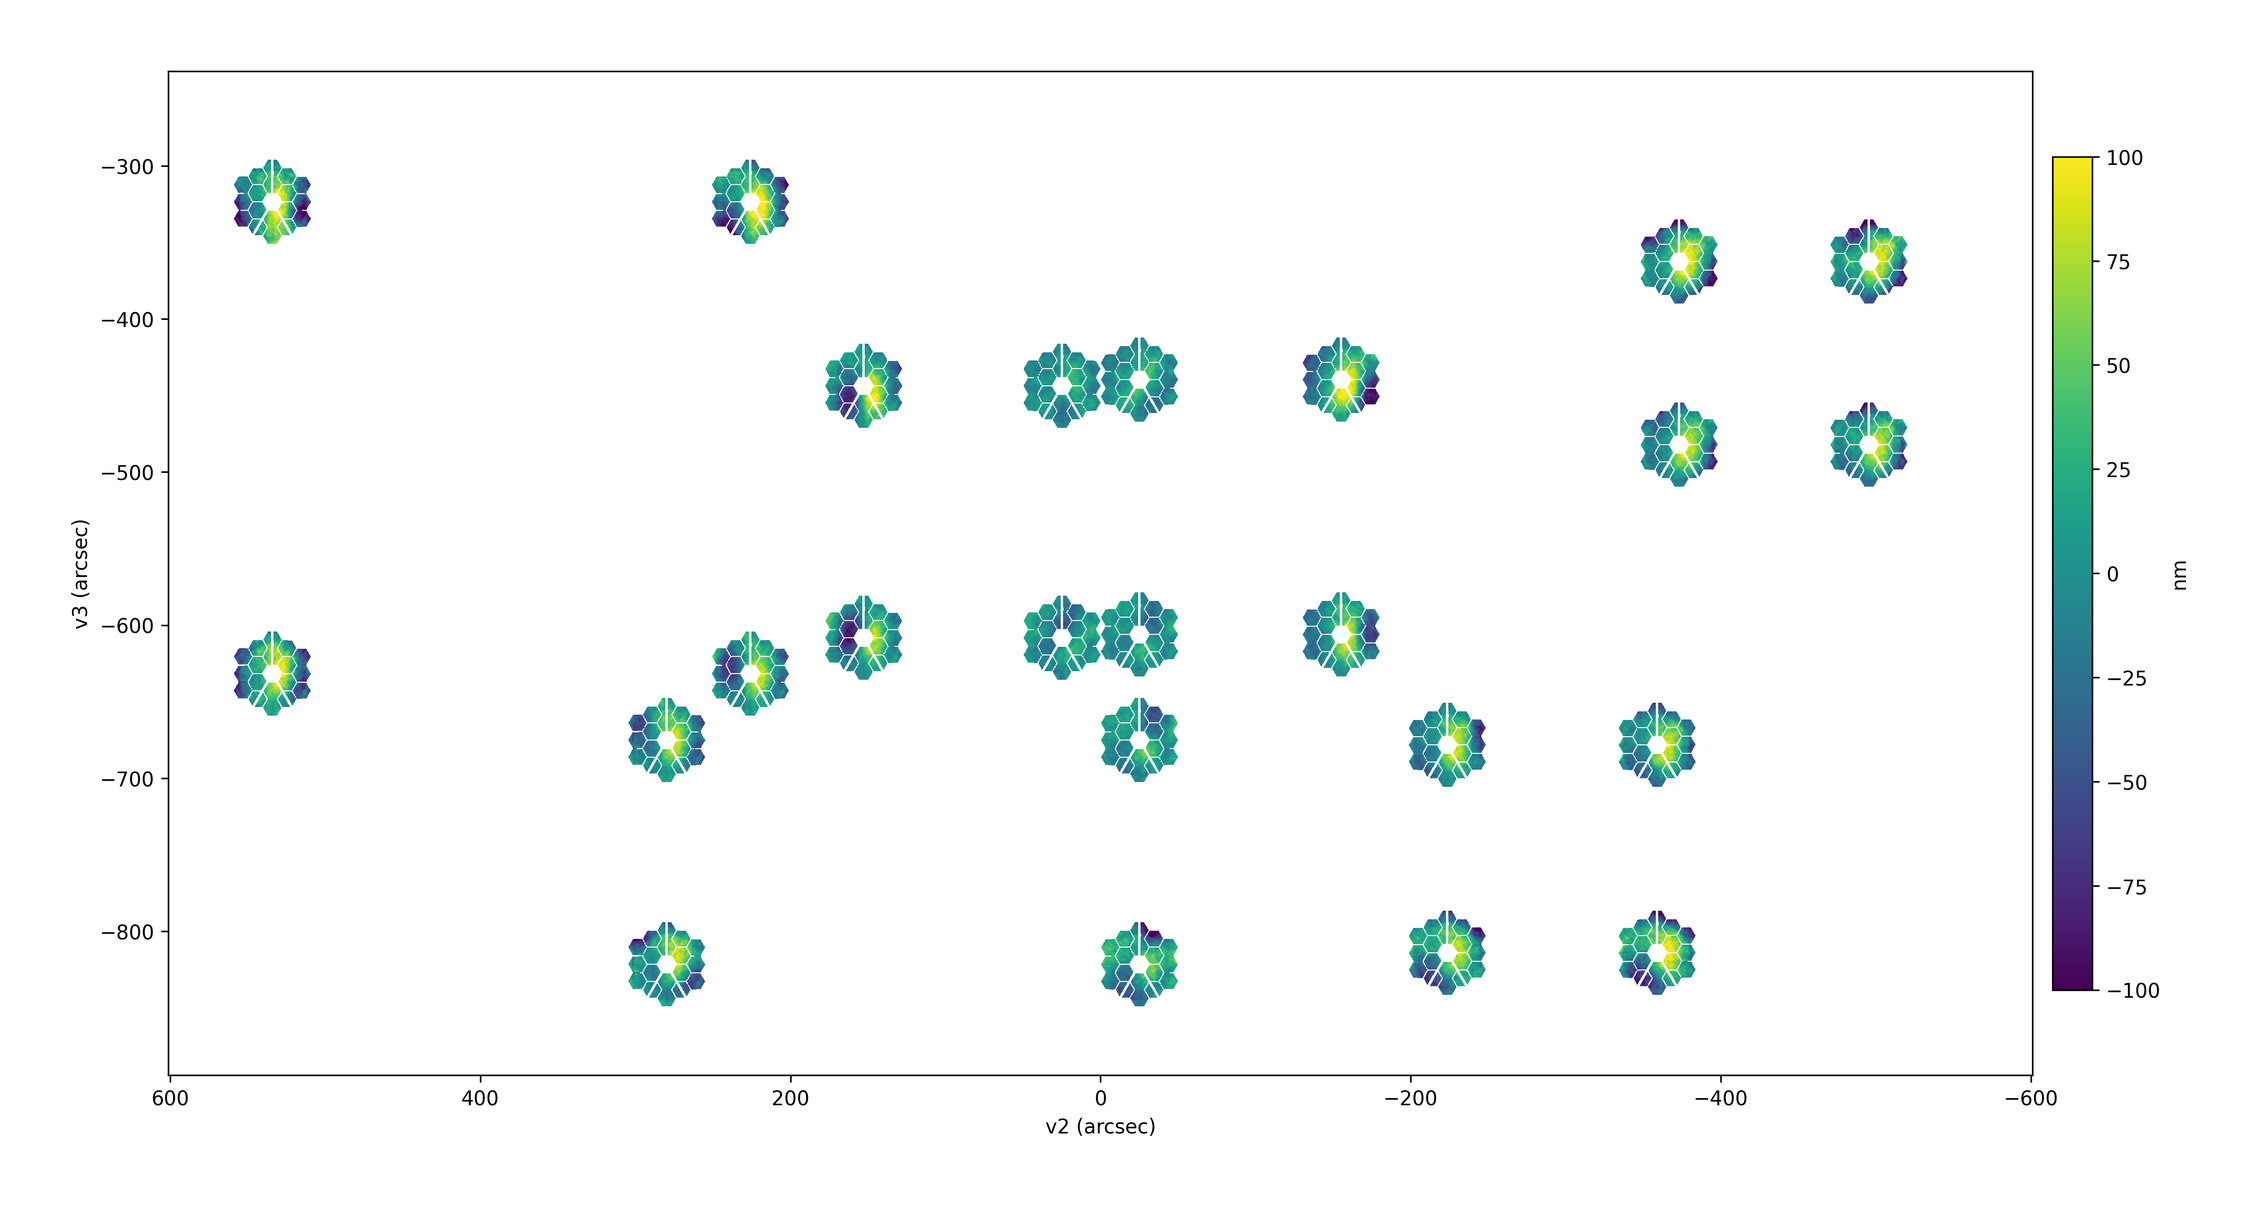
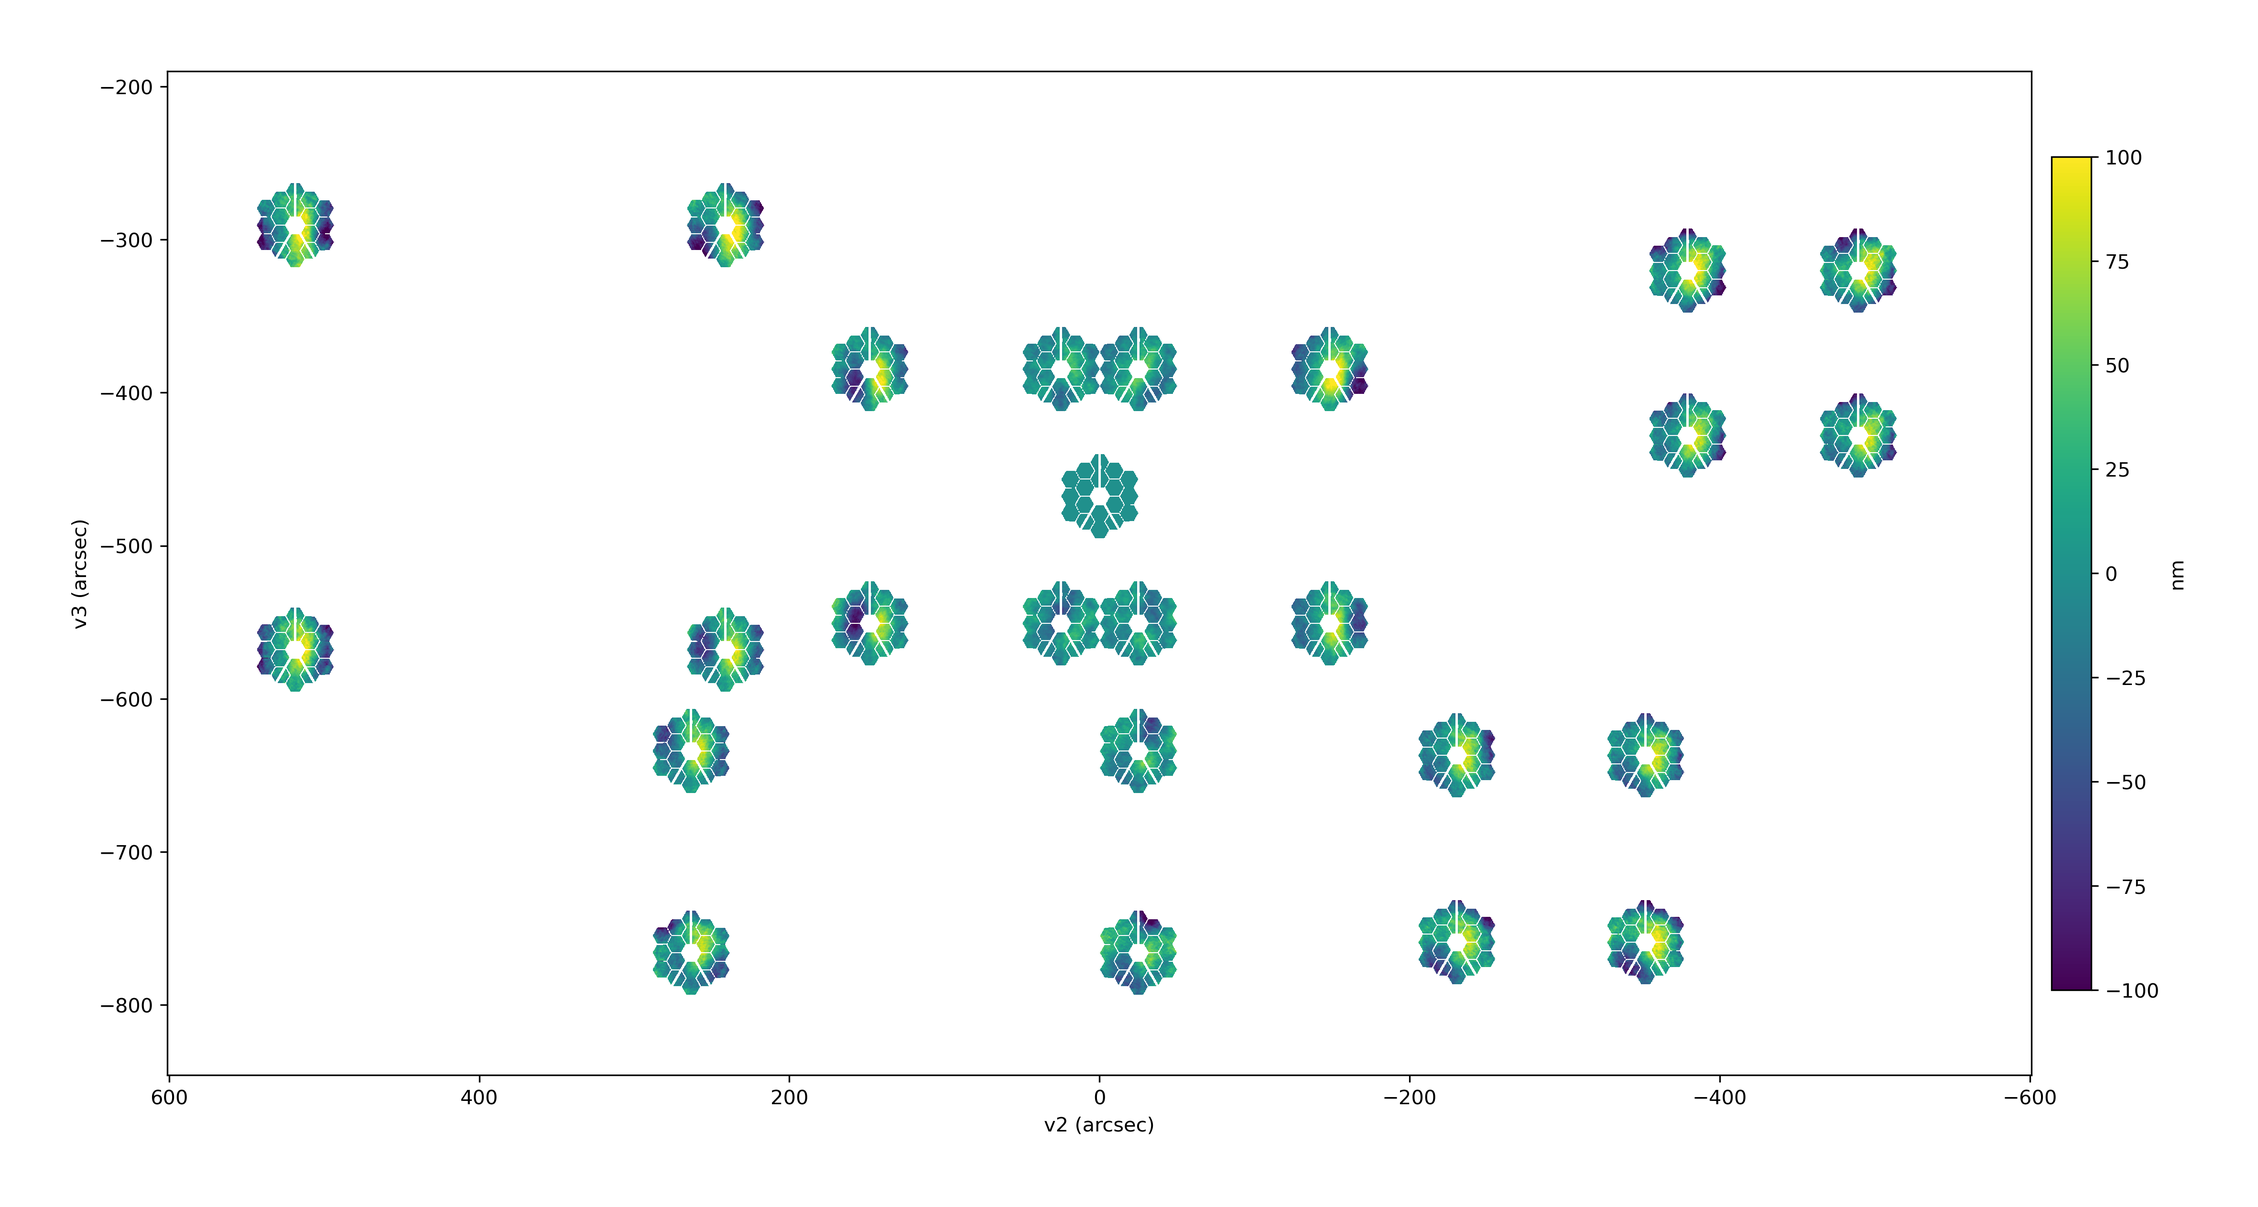
Fixed a few bugs that were causing disagreement with field-dependent wavefront maps and updated documentation.  Added ability to use fewer polynomial orders in field dependent model.

diff --git a/dev_utils/field_dependence/read_codev_dat_fits.py b/dev_utils/field_dependence/read_codev_dat_fits.py
@@ -3,6 +3,8 @@ import pint
 units = pint.UnitRegistry()
 import astropy.io.fits as fits
 import basis
+import matplotlib.pyplot as plt
+from datetime import datetime
 
 # Script that reads in a set of CodeV Pupil map OPD files across fields and instruments and fits Zernikes to the OPD
 # distribution at each field point and then Lengdres to the variation of each Zernike coefficient across field.  The
@@ -25,8 +27,8 @@ def read_codeV_data_file(filename):
 
 
 def main():
-    num_fields_x = 15
-    num_fields_y = 15
+    num_fields_x = 21
+    num_fields_y = 21
 
     num_wf_pts_x = 256
     num_wf_pts_y = 256
@@ -39,38 +41,30 @@ def main():
         'niriss'
     ]
 
-    # instruments = {'nircam'}
-
     # Zernike fitting order for each instrument
-    order= {'fgs' : 6,
-            'nircam' : 6,
-            'miri' : 6,
-            'nirspec' : 6,
-            'niriss' : 6
+    order= {'fgs': 15,
+            'nircam': 15,
+            'miri': 15,
+            'nirspec': 15,
+            'niriss': 15
             }
 
     # Define the origin of the CodeV coordinate system in V2/V3 space
     v2_origin_degrees = 0
     v3_origin_degrees = -468/3600
     # How are the signs of the coordinates related between V2/V3 and CodeV
-    v2_sign = -1
+    v2_sign = 1
     v3_sign = -1
 
     wavelength_nm = 2120
 
     # Fitting order of Legendres for fitting field variation
-    legendre_order = 11
+    legendre_order = 15
     legendres = basis.Legendre2DBasis(legendre_order, num_fields_y, num_fields_x)
 
     # Read in the wavefront at at the on-axis field point
-    oa_data, oa_data_defined, oa_field = read_codeV_data_file('raw_field_dep_data/wavefront_on_axis.dat')
+    oa_data, oa_data_defined, oa_field = read_codeV_data_file('wavefront_on_axis.dat')
     oa_data = oa_data * wavelength_nm
-    zernikes_oa = basis.NollZernikeBasis(order['nircam'], num_wf_pts_x, num_wf_pts_y)
-    oa_wavefront = basis.PointByPointWavefront(oa_data,
-                                               oa_data_defined, 2, 2120,
-                                               basis.units.nm, wf_basis=zernikes_oa)
-    oa_coeffs = oa_wavefront.coeffs
-
 
     # Loops over the various instruments
     for instrument in instruments:
@@ -83,14 +77,9 @@ def main():
             num_coeffs = zernikes.numpolys
 
         # Read in wavefront at reference point
-        filename = f'raw_field_dep_data/{instrument}/wavefront_ref.dat'
+        filename = f'{instrument}/wavefront_ref.dat'
         ref_data, ref_data_defined, ref_field = read_codeV_data_file(filename)
         ref_data = ref_data * wavelength_nm  # CodeV gives wavefront in waves
-
-        ref_wf = basis.PointByPointWavefront(ref_data,
-                                             ref_data_defined, 2, 2120,
-                                             basis.units.nm, wf_basis=zernikes)
-        ref_coeffs = ref_wf.coeffs
 
         # Initialize some arrays
         fields = np.zeros((num_fields_x, num_fields_y, 2))
@@ -100,52 +89,90 @@ def main():
         coeffs_global = np.zeros((num_fields_y, num_fields_x, num_coeffs))
 
         print(instrument)
-        for fx_index in range(0,num_fields_x):
-            print(fx_index)
+
+        # Loop over the files for all fields doing Zernike fits and storing the Zernike data
+        for fx_index in range(0, num_fields_x):
+
             for fy_index in range(0, num_fields_y):
-                print(fy_index)
-                filename = f'raw_field_dep_data/{instrument}/wavefront_fx{fx_index + 1}_fy{fy_index + 1}.dat'
+                filename = f'{instrument}/wavefront_fx{fx_index + 1}_fy{fy_index + 1}.dat'
+                print(filename)
+                # Read in the CodeV wavefront data, OPD in waves in CodeV
                 cur_data, cur_data_defined, cur_field_pt = read_codeV_data_file(filename)
                 cur_data = cur_data * wavelength_nm
 
+                # Keep track of where data is good for each wavefront.  And together the current field, reference field
+                # and on-axis field so we only consider data that is valid in all of them.
                 data_defined_arr[fx_index, fy_index, :, :] = np.logical_and(cur_data_defined, ref_data_defined)
+                data_defined_arr[fx_index, fy_index, :, :] = np.logical_and(data_defined_arr[fx_index, fy_index, :, :], oa_data_defined)
 
+                # Store the location of the current field point
                 fields[fx_index, fy_index, 0] = cur_field_pt[0]
                 fields[fx_index, fy_index, 1] = cur_field_pt[1]
 
-                cv_wavefront = basis.PointByPointWavefront(cur_data,
+                # Subtract off local reference (~center of current instrument) and global (0,0 CodeV field point)
+                # reference wavefronts from current wavefront
+                cur_data_local = cur_data - ref_data
+                cur_data_global = cur_data - oa_data
+
+                # Define wavefront objects using the CodeV wavefront data
+                cv_wavefront_global = basis.PointByPointWavefront(cur_data_global,
                                                            data_defined_arr[fx_index, fy_index, :, :], 2, 2120,
                                                            basis.units.nm, wf_basis=zernikes)
-                coeffs_local[fy_index, fx_index, :] = cv_wavefront.coeffs - ref_coeffs
-                coeffs_local[fy_index, fx_index, 0:3] = 0
-                coeffs_global[fy_index, fx_index, :] = cv_wavefront.coeffs - oa_coeffs
-                coeffs_global[fy_index, fx_index, 0:3] = 0
+                cv_wavefront_local = basis.PointByPointWavefront(cur_data_local,
+                                                           data_defined_arr[fx_index, fy_index, :, :], 2, 2120,
+                                                           basis.units.nm, wf_basis=zernikes)
 
-        # Fit the field dependent coefficients to Legendres
+                # Get the coefficients for the wavefront from their wavefront objects and set piston, tip and tilt
+                # contributions to zero.
+                coeffs_global[fy_index, fx_index, :] = cv_wavefront_global.coeffs
+
+                # ttp_global = np.zeros(zernikes.numpolys)
+                # ttp_global[0:3] = coeffs_global[fy_index, fx_index, 0:3]
+                coeffs_global[fy_index, fx_index, 0:3] = 0
+                coeffs_local[fy_index, fx_index, :] = cv_wavefront_local.coeffs
+                coeffs_local[fy_index, fx_index, 0:3] = 0
+
+
+        # Fit the field dependent coefficients to Legendres.  Each Zernike varying across field gets its own Legendre fit
+
+        #Initialize column lists used to store data in fits file
         fits_column_list_local = []
         fits_column_list_global = []
+        #Initialize arrays for the current set of coefficients
         legendre_coeffs_local = np.zeros((legendres.numpolys, num_coeffs))
         legendre_coeffs_global = np.zeros((legendres.numpolys, num_coeffs))
+
+        #Loop over each Zernike, doing the fits, etc
         for index in range(0, num_coeffs):
+            # Get array of current Zernike coefficient across field
             cur_coeffs_local = coeffs_local[:,:, index]
             cur_coeffs_global = coeffs_global[:, :, index]
+            # Set the Zernike coefficient variation up as if it was a wavefront.  Of course the array here is varying
+            # across the field plane and not the pupil plane, so we're using this in a non-standard way.  Also,
+            # using the legendre polynomials at the basis set.
             legendre_var_local = basis.PointByPointWavefront(cur_coeffs_local, np.ones_like(cur_coeffs_local).astype(bool), 4,
                                                              wavelength_nm, basis.units.nm, wf_basis=legendres)
             legendre_var_global = basis.PointByPointWavefront(cur_coeffs_global, np.ones_like(cur_coeffs_global).astype(bool), 4,
                                                              wavelength_nm, basis.units.nm, wf_basis=legendres)
+            # Pull out the Legendre coeffcients from the wavefront object
             legendre_coeffs_local[:, index] = legendre_var_local.coeffs
             legendre_coeffs_global[:, index] = legendre_var_global.coeffs
 
+            # Store the Legendre coeffcients for the current Zernike term as a fits column and store in column list.
             cur_fits_col_local = fits.Column(name=f'Zernike {index} Legendres', format='D', array=legendre_coeffs_local[:,index])
             fits_column_list_local.append(cur_fits_col_local)
             cur_fits_col_global = fits.Column(name=f'Zernike {index} Legendres', format='D', array=legendre_coeffs_global[:,index])
             fits_column_list_global.append(cur_fits_col_global)
 
+        # Set things up to write coefficient data to .fits file
+
+        # Determine the limits of the field region over which we the current model is valid
         min_xfield = np.min(fields[:, :, 0])
         max_xfield = np.max(fields[:, :, 0])
         min_yfield = np.min(fields[:, :, 1])
         max_yfield = np.max(fields[:, :, 1])
 
+        # Instantiate a fits object and populate header fields
         hdu_primary = fits.PrimaryHDU([])
         header = hdu_primary.header
         header['instr'] = instrument
@@ -184,14 +211,19 @@ def main():
         header.comments['fangunit'] = '(Angular) units of field coordinates'
         header['opdunit'] = 'nm'
         header.comments['opdunit'] = 'Units used for the OPDs'
+        now = datetime.now()
+        header['created'] = now.strftime('%m/%d/%Y, %H:%M:%S')
+        header.comments['created'] = 'File creation date and time'
 
+        # Put local and global fitting data in to fits hdu as tables
         col_defs_local = fits.ColDefs(fits_column_list_local)
         col_defs_global = fits.ColDefs(fits_column_list_global)
         hdu_table_local = fits.BinTableHDU.from_columns(col_defs_local)
         hdu_table_global = fits.BinTableHDU.from_columns(col_defs_global)
 
+        # Populate the hdu list of our fits object and write the data out.
         hdu_list = fits.HDUList([hdu_primary, hdu_table_local, hdu_table_global])
-        hdu_list.writeto(f'raw_field_dep_data/{instrument}/field_dep_table_{instrument}.fits', overwrite='True')
+        hdu_list.writeto(f'{instrument}/field_dep_table_{instrument}.fits', overwrite='True')
 
 if __name__ == '__main__':
     main()

diff --git a/webbpsf/opds.py b/webbpsf/opds.py
@@ -1478,10 +1478,15 @@ class OTE_Linear_Model_WSS(OPD):
         return coeffs
         
 
-    def _get_field_dependence_nominal_ote(self, reference='global'):
+    def _get_field_dependence_nominal_ote(self, reference='global',
+                                          zern_num=None, legendre_num=None):
         """Calculate field dependence model for OTE wavefront error spatial variation.
 
         Returns OPD based on V2V3 coordinates using model(s) for spatial variations.
+
+        zern_num and legendre_num allow for fewer terms to be used in calculating the wavefront at a field angle
+        than are specified in the calibration files.  This is to reduce required computation if the increase in
+        accuracy isn't needed.
         """
 
         if self.v2v3 is None:
@@ -1539,8 +1544,7 @@ class OTE_Linear_Model_WSS(OPD):
         max_y_field = hdr['MAXYFIE'] * u.arcmin
 
         # Check to make sure that we've got the right instrument
-        # if hdr['instr'].lower != instrument.lower:
-        if hdr['instr'].lower != 'NIRCam'.lower:        # Bug in table calculation put NIRCam for all.  Will fix later
+        if hdr['instr'].lower != instrument.lower:
             ValueError('Instrument inconsistent with field dependence file')
 
         # Check to make sure that the file has the right type of data in it and throw exception if not
@@ -1551,8 +1555,22 @@ class OTE_Linear_Model_WSS(OPD):
             raise ValueError('Data file contains data with unsupported field polynomial expansion')
 
         num_wavefront_coeffs = hdr['ncoefwf']
+        if zern_num is None:
+            zern_num = num_wavefront_coeffs
+        if (zern_num > num_wavefront_coeffs):
+            raise ValueError('Data file contains fewer wavefront coefficients than specified')
+
         num_field_coeffs = hdr['ncoeffie']
+        if legendre_num is None:
+            legendre_num = num_field_coeffs
+        if (legendre_num > num_field_coeffs):
+            raise ValueError('Data file contains fewer field coefficients than specified')
+
         field_coeff_order = hdr['fieorder']
+        # If we aren't using all the Legendre terms in the table we can update the order of
+        # Legendre polynomial required so we don't have to calculate all of them.
+        if legendre_num is not None:
+            field_coeff_order = int(np.ceil((-3 + np.sqrt(1 + 8 * legendre_num)) / 2))
 
         # Check the field angle units in the input file
         if hdr['fangunit'] == 'degrees':
@@ -1564,16 +1582,10 @@ class OTE_Linear_Model_WSS(OPD):
         else:
             raise ValueError('Field angle unit specified in file is not supported')
 
-        # Reference point (center of instument's field) for our model
-        ref_pt_x = hdr['refptx'] * u.arcmin
-        ref_pt_y = hdr['refpty'] * u.arcmin
-
         # Calculate field angle for our model from the V2/V3 coordinates
         x_field_pt = hdr['v2sign'] * (self.v2v3[0] - hdr['v2origin'] * f_ang_unit)
         y_field_pt = hdr['v3sign'] * (self.v2v3[1] - hdr['v3origin'] * f_ang_unit)
 
-        # x_field_pt = 0.04 * u.deg
-        # y_field_pt = 0.027 * u.deg
         _log.info(f'Calculating field-dependent OPD at v2 = {self.v2v3[0]:.3f}, v3 = {self.v2v3[1]:.3f}')
         _log.debug(f'Calculating field-dependent OPD at CodeV X field = {x_field_pt:.3f}, Y field= {y_field_pt:.3f}')
 
@@ -1618,8 +1630,11 @@ class OTE_Linear_Model_WSS(OPD):
         # can become more tightly coupled with WebbPSF/Poppy and we just call it here instead.
         # Calculate value of Legendre at all orders at our field point of interest.
 
-        x_field_pt_norm = float((x_field_pt - ref_pt_x) / ((max_x_field - min_x_field) / 2))
-        y_field_pt_norm = float((y_field_pt - ref_pt_y) / ((max_y_field - min_y_field) / 2))
+        field_center_x = (max_x_field + min_x_field) / 2
+        field_center_y = (max_y_field + min_y_field) / 2
+
+        x_field_pt_norm = float((x_field_pt - field_center_x) / ((max_x_field - min_x_field) / 2))
+        y_field_pt_norm = float((y_field_pt - field_center_y) / ((max_y_field - min_y_field) / 2))
 
         _log.debug(f'{instrument} max_x={max_x_field} min_x={min_x_field} max_y={max_y_field} min_y={min_y_field}')
         _log.debug(f'Normalized field point {x_field_pt_norm}, {y_field_pt_norm}')
@@ -1627,32 +1642,36 @@ class OTE_Linear_Model_WSS(OPD):
         poly_y1d = np.zeros(field_coeff_order + 1)
         for index in range(0, field_coeff_order + 1):
             leg_poly1d = sp.legendre(index)
-            poly_x1d[index] = leg_poly1d(x_field_pt_norm)
             poly_y1d[index] = leg_poly1d(y_field_pt_norm)
+            poly_x1d[index] = leg_poly1d(x_field_pt_norm)
 
         # TODO much of this can be vectorized for better performance.
         #Calculate product of x and y Legendre value for all combinations of orders
         poly_val_2d = np.zeros((field_coeff_order + 1, field_coeff_order + 1))
         for index_i in range(0, field_coeff_order + 1):
             for index_j in range(0, field_coeff_order + 1):
-                poly_val_2d[index_i, index_j] = poly_x1d[index_i] * poly_y1d[index_j]
+                poly_val_2d[index_i, index_j] = poly_y1d[index_i] * poly_x1d[index_j]
 
         #Reorder and rearrange values to correspond to the single index ordering the input coefficients assume
         count = 0
-        poly_vals = np.zeros(num_field_coeffs)
+        poly_vals = np.zeros(legendre_num)
         for index_i in range(0, field_coeff_order + 1):
             for index_j in range(index_i, -1, -1):
                 poly_vals[count] = poly_val_2d[index_j, index_i - index_j]
                 count += 1
+                if count == legendre_num: break
+            if count == legendre_num: break
+
+        poly_vals = poly_vals[0:legendre_num]
 
         # poly_vals now has the value of all of the Legendre polynomials at our field point of interest.  So now we
         # need to multiply each value there with the value of the Legendre coefficients in each column and sum.  That
         # sum will be the value of a Zernike, so we loop to repeat that for each Zernike coefficient
 
-        zernike_coeffs = np.zeros(num_wavefront_coeffs)
-        for z_index in range(0, num_wavefront_coeffs):
-            # zernike_coeffs[z_index] = np.einsum('i, i->', data.field(z_index), poly_vals)
-            zernike_coeffs[z_index] += (data.field(z_index) * poly_vals).sum()
+        zernike_coeffs = np.zeros(zern_num)
+        for z_index in range(0, zern_num):
+            cur_legendre = data.field(z_index)
+            zernike_coeffs[z_index] = np.einsum('i, i->', cur_legendre[0:legendre_num], poly_vals)
 
         zernike_coeffs[0:3] = 0  # ignore piston/tip/tilt
 

diff --git a/dev_utils/field_dependence/basis.py b/dev_utils/field_dependence/basis.py
@@ -1062,11 +1062,11 @@ class PointByPointWavefront(Wavefront):
 
 def main():
     # a = ZernikeBasis(4, 16, 16)
-    a = NollZernikeBasis(7, 256, 256)
+    a = NollZernikeBasis(7, 1024, 1024)
     a.show_polynomials()
 
-    print(f'x= {a.xnorm}')
-    # a = Legendre2DBasis(6, 128, 128)
+    a = Legendre2DBasis(6, 128, 128)
+    a.show_polynomials()
 
     # new_data_defined = (abs(a.xnorm) <= 0.7) & (abs(a.ynorm) <= 0.7)
     # new_data_defined = np.sqrt(a.xnorm ** 2 + a.ynorm ** 2) <= 0.7
